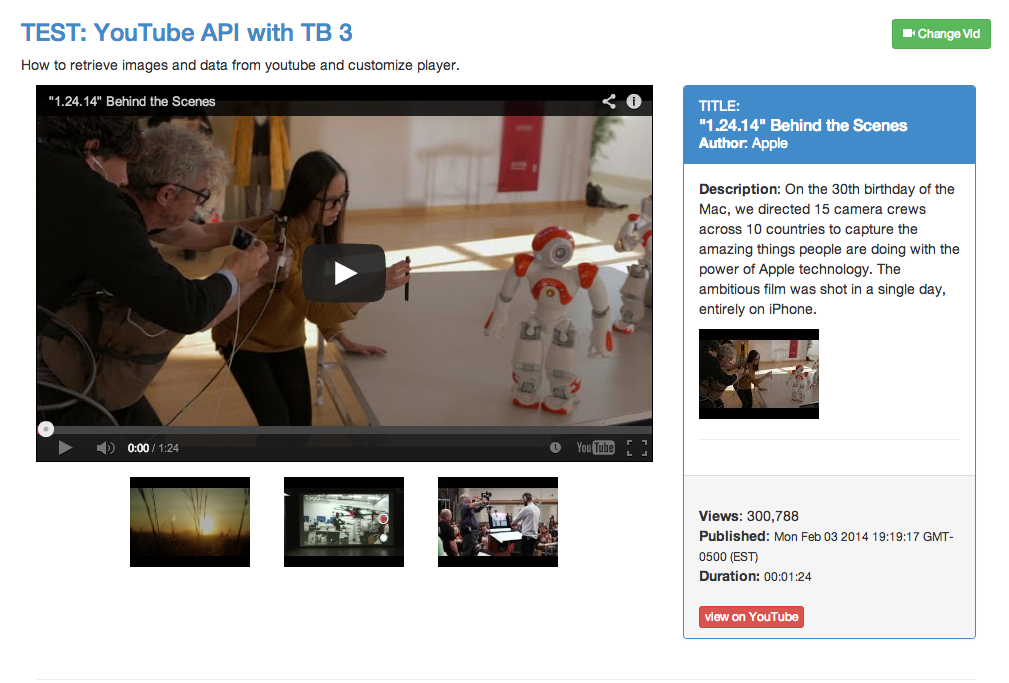
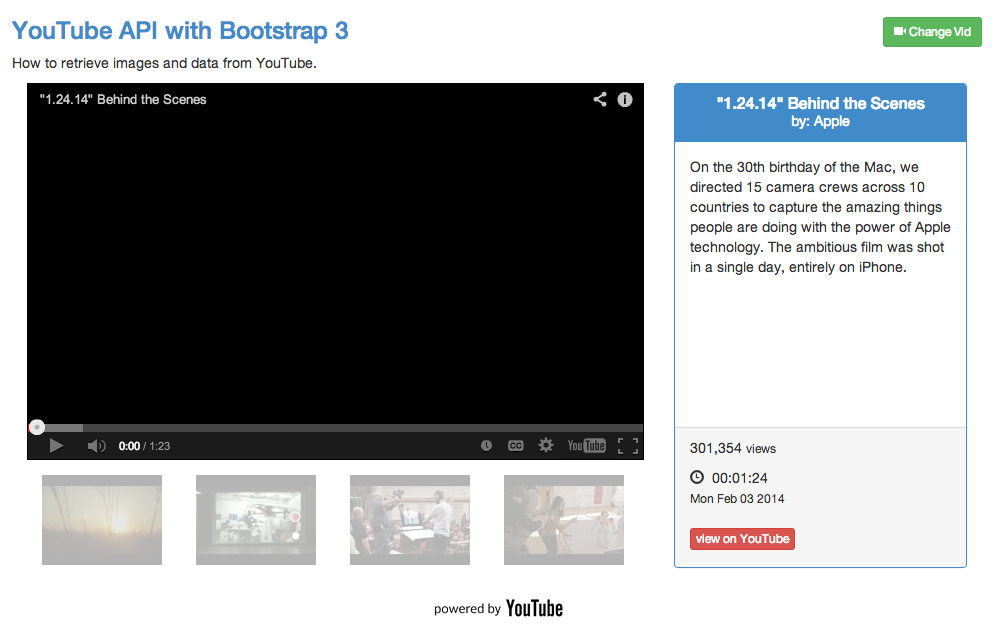
minor changes
new screen shot

diff --git a/ytapi.js b/ytapi.js
@@ -6,6 +6,7 @@
 
 
 /*
+Ref:
 http://stackoverflow.com/questions/5194619/getting-youtube-video-information-using-javascript-jquery
 */
 
@@ -26,13 +27,6 @@ setTimeout("getYouTubeInfo(id, t)", 8000);
         getYouTubeInfo(id, t);
     }, 3000);
     //getYouTubeInfo(id, t);
-
-    // $('#alertmess').show().fadeOut(3000);
-
-
-
-
-
 
 }); // end.doc.ready fn
 
@@ -140,7 +134,7 @@ function parseresults(data) {
 
     $('#yt-published').html('<small> ' + published + '</small>');
 
-    $('#yt-viewcount').html('<br/>' + addCommas(viewcount));
+    $('#yt-viewcount').html('<p>' + addCommas(viewcount) + ' <small>views</small></p>');
 
 
     $('#yt-thumbnail1').hide().html('<img src=" ' + thumbnail1 + '" alt="" class="img-rounded yt-fade yt-pad5">').fadeIn(2000);
